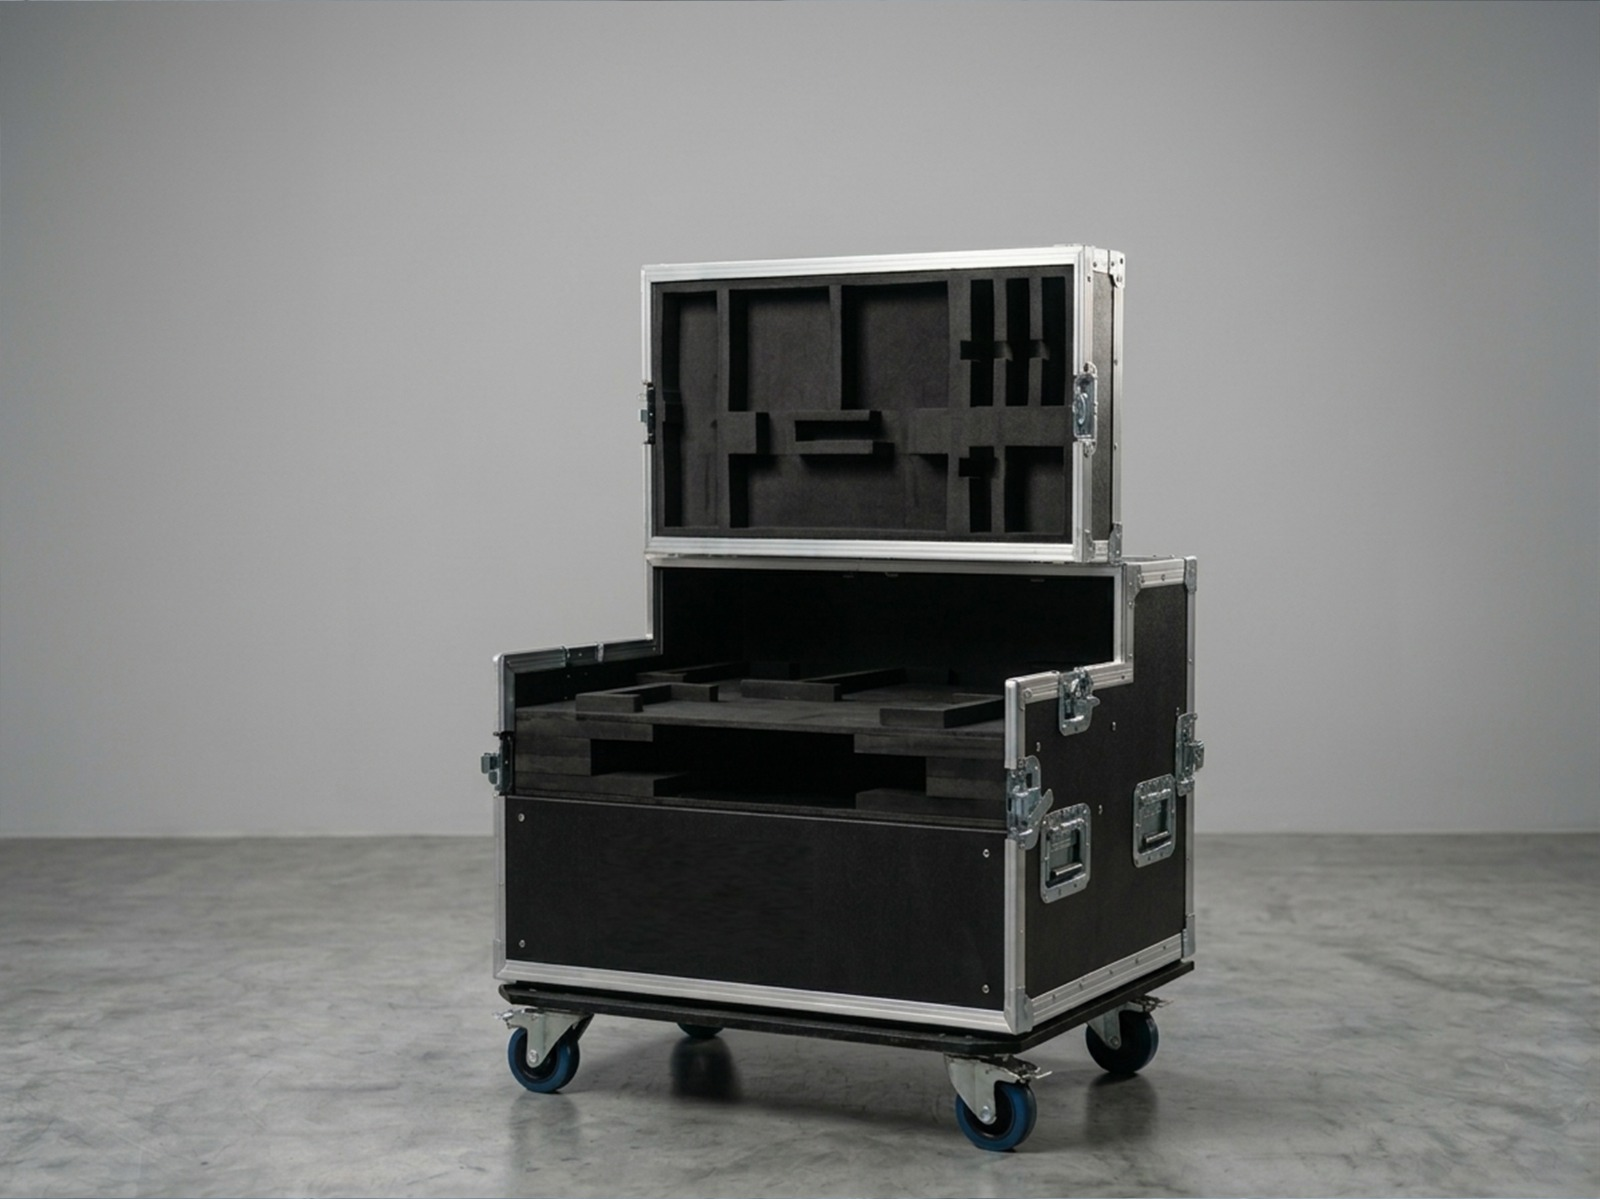
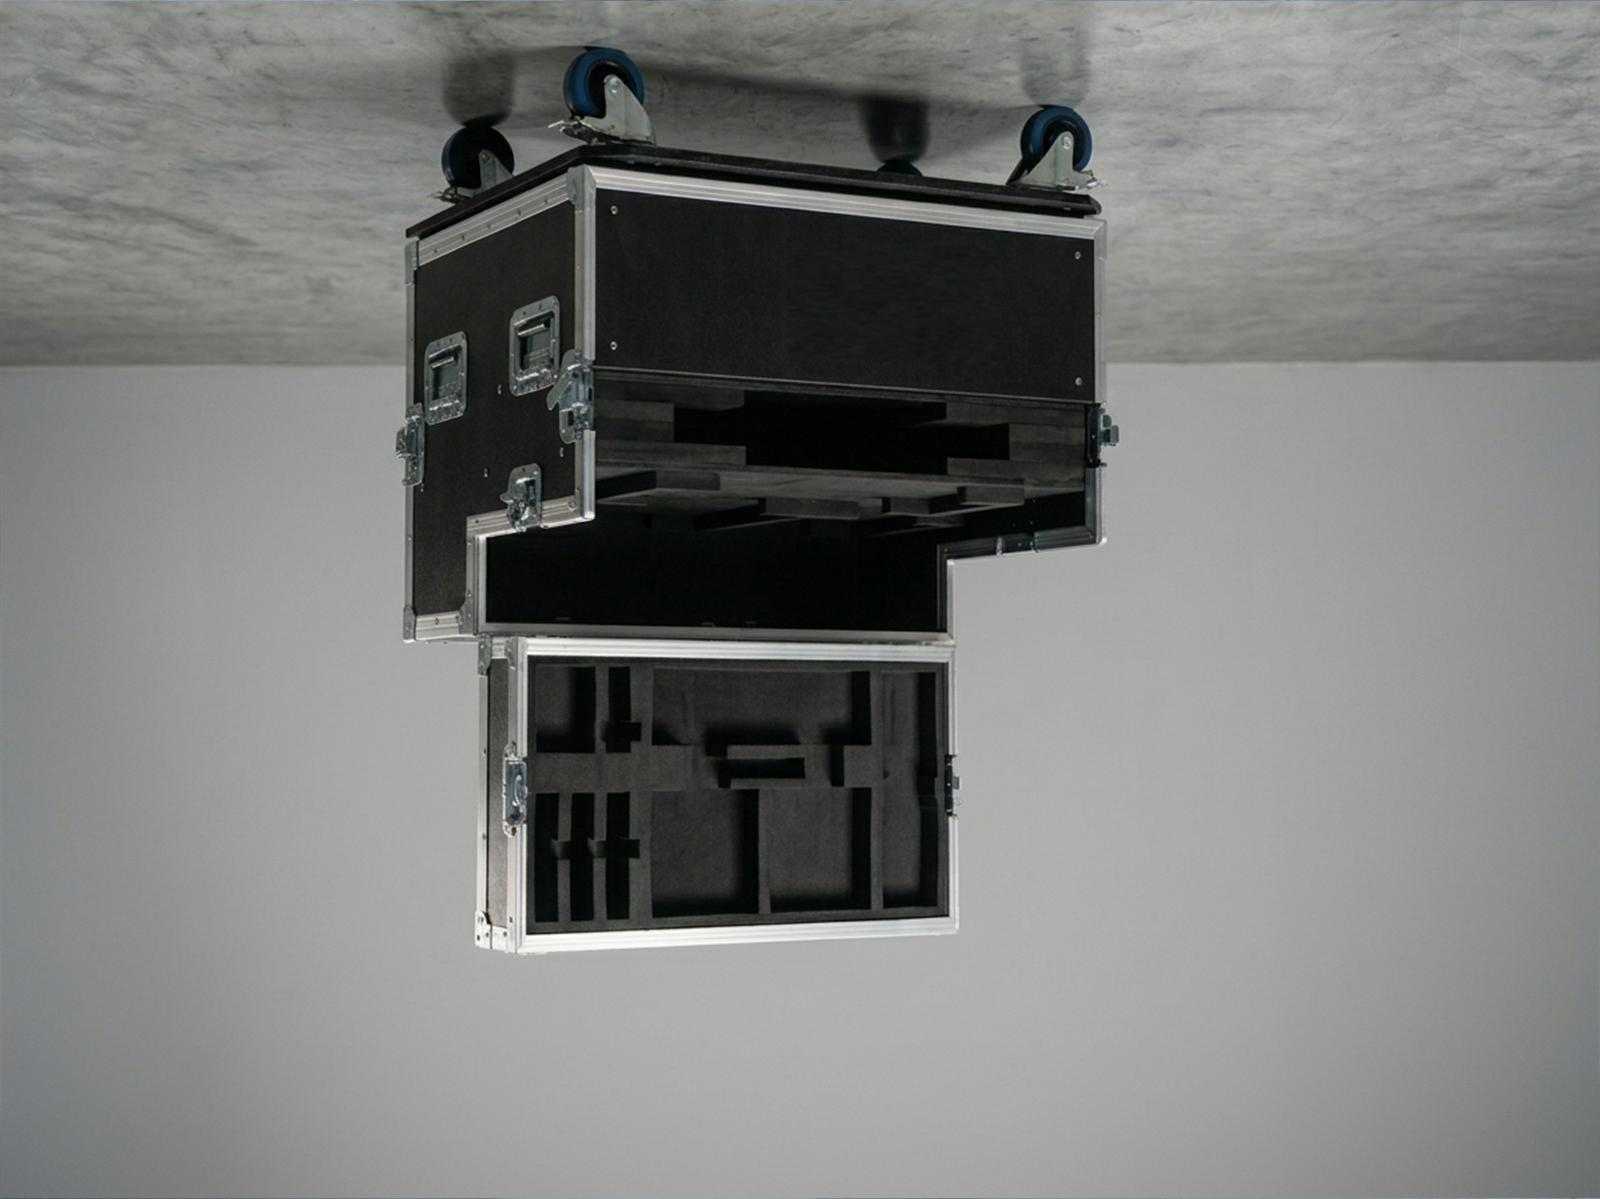
dd

diff --git a/src/data/product-images.ts b/src/data/product-images.ts
@@ -486,14 +486,7 @@ export function getProductImages(productName: string): ProductImageSet {
           thumb: palletImage.url,
           type: "product",
         },
-        galleryImages: [
-          {
-            large: palletImage.url,
-            thumb: palletImage.url,
-            type: "product",
-          },
-          ...fallbackGallery,
-        ],
+        galleryImages: [],
       };
     }
   }
@@ -513,14 +506,7 @@ export function getProductImages(productName: string): ProductImageSet {
           thumb: boxImage.url,
           type: "product",
         },
-        galleryImages: [
-          {
-            large: boxImage.url,
-            thumb: boxImage.url,
-            type: "product",
-          },
-          ...fallbackGallery,
-        ],
+        galleryImages: [],
       };
     }
   }
@@ -802,16 +788,16 @@ export function getProductImages(productName: string): ProductImageSet {
 
   if (isToolControlFoam) {
     const aiToolFoamImg = scannedImages.find(img => img.stem.toLowerCase() === "tool control foam");
-    const aiToolCaseImg = scannedImages.find(img => img.stem.toLowerCase().includes("tool control case"));
+    const aiToolCaseV2Img = scannedImages.find(img => img.stem.toLowerCase() === "tool control case v2");
     
-    const mainImgUrl = aiToolFoamImg ? aiToolFoamImg.url : (aiToolCaseImg ? aiToolCaseImg.url : "/portfolio/large/tool-box1-rotated.webp");
+    const mainImgUrl = aiToolFoamImg ? aiToolFoamImg.url : (aiToolCaseV2Img ? aiToolCaseV2Img.url : "/portfolio/large/tool-box1-rotated.webp");
 
     const gallery: ProductImage[] = [];
 
-    if (aiToolCaseImg) {
+    if (aiToolCaseV2Img) {
       gallery.push({
-        large: aiToolCaseImg.url,
-        thumb: aiToolCaseImg.url,
+        large: aiToolCaseV2Img.url,
+        thumb: aiToolCaseV2Img.url,
         type: "product",
       });
     }
